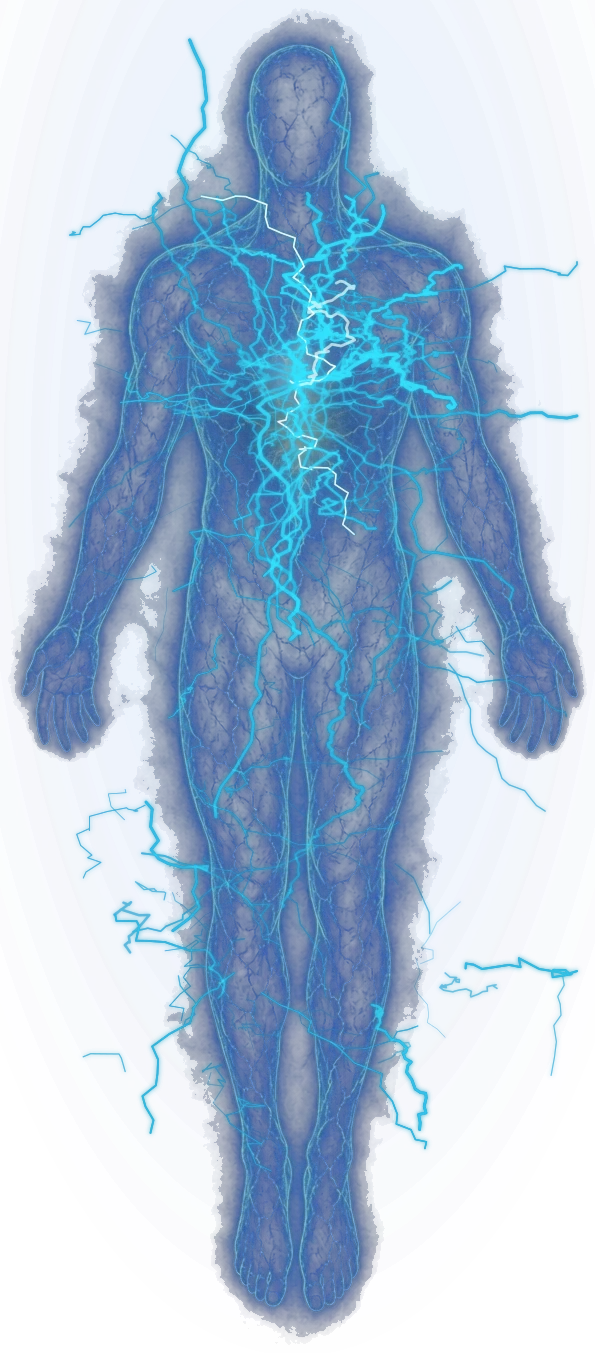
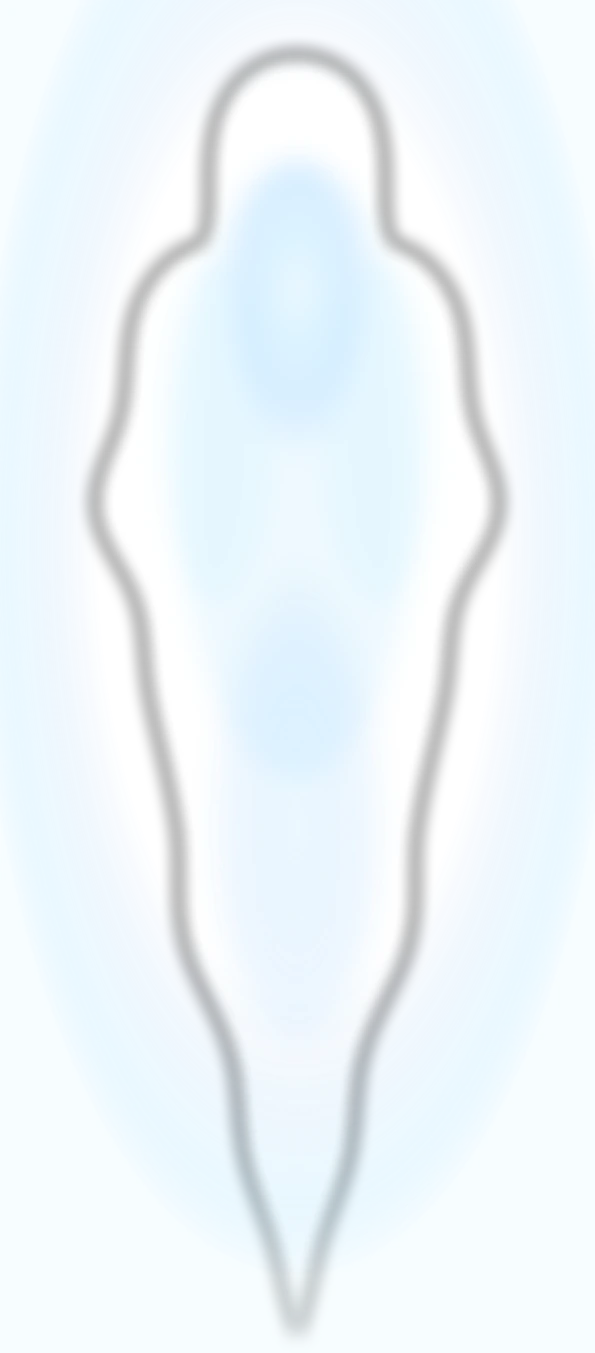
Sun rises behind planet; natural phantom without lightning
- Position rising sun below planet horizon with z-index behind planet scene
- Slow ascend keyframes so disc emerges as planet sinks away
- Regenerate phantom as soft volumetric glow with smooth silhouette
- Remove LightningLayer during phantom phase for clean natural look
- Lower space-light warmth to planet horizon during sunrise

diff --git a/src/components/HeroSun.css b/src/components/HeroSun.css
@@ -9,8 +9,8 @@
 .hero-sun {
   position: absolute;
   left: 50%;
-  top: 108%;
-  z-index: 3;
+  top: var(--sun-rise-start-top);
+  z-index: 1;
   width: 0;
   height: 0;
   pointer-events: none;
@@ -19,11 +19,13 @@
 }
 
 .hero-sun--rising {
+  z-index: 1;
   animation: hero-sun-ascend var(--hero-sun-rise-duration) cubic-bezier(0.25, 0.46, 0.35, 0.98) forwards;
 }
 
 .hero-sun--empowered {
   top: var(--hero-sun-top);
+  z-index: 3;
   opacity: 1;
   transform: translateX(-50%);
   animation: none;
@@ -253,13 +255,23 @@
 
 @keyframes hero-sun-ascend {
   0% {
-    top: 108%;
+    top: var(--sun-rise-start-top);
     opacity: 0;
-    transform: translateX(-50%) scale(0.65);
+    transform: translateX(-50%) scale(0.72);
   }
 
   8% {
+    opacity: 0.25;
+  }
+
+  18% {
+    opacity: 0.7;
+  }
+
+  50% {
+    top: calc(var(--sun-rise-start-top) - 5%);
     opacity: 1;
+    transform: translateX(-50%) scale(0.88);
   }
 
   100% {

diff --git a/src/components/HeroMomentum.tsx b/src/components/HeroMomentum.tsx
@@ -2,7 +2,6 @@ import { useHeroSequence } from "../hooks/useHeroSequence";
 import { useBreakpoint } from "../contexts/BreakpointContext";
 import { useReducedMotion } from "../hooks/useReducedMotion";
 import { CosmicBackground } from "./CosmicBackground";
-import { LightningLayer } from "./LightningLayer";
 import { PhantomEntity } from "./PhantomEntity";
 import { SalesCTA } from "./SalesCTA";
 import { HeroSun } from "./HeroSun";
@@ -34,7 +33,6 @@ export function HeroMomentum() {
       </a>
 
       <CosmicBackground enhanced={showContent} showSunrise={showContent} />
-      {isStorm ? <LightningLayer mega /> : null}
       <PhantomEntity visible={isStorm || isForge} dissolving={isForge} />
       <HeroSun rising={phase === "content"} empowered={isEmpowered} />
       <SalesCTA

diff --git a/src/components/CosmicBackground.css b/src/components/CosmicBackground.css
@@ -139,7 +139,7 @@
 .cosmic-background--sunrise .cosmic-background__space-light {
   background:
     radial-gradient(
-      circle at 50% 58%,
+      circle at 50% 72%,
       rgba(255, 230, 190, 0.58) 0%,
       rgba(255, 195, 130, 0.32) 20%,
       rgba(255, 155, 85, 0.14) 38%,
@@ -147,7 +147,7 @@
       transparent 70%
     ),
     radial-gradient(
-      circle at 50% 48%,
+      circle at 50% 64%,
       rgba(255, 245, 230, 0.34) 0%,
       rgba(255, 210, 150, 0.14) 32%,
       transparent 58%
@@ -180,6 +180,7 @@
 
 .cosmic-background--sunrise {
   --rise-duration: 4.2s;
+  z-index: 2;
 }
 .cosmic-background__planet-scene {
   position: absolute;

diff --git a/src/components/PhantomEntity.css b/src/components/PhantomEntity.css
@@ -217,12 +217,12 @@
   z-index: 1;
   background: transparent;
   filter:
-    contrast(1.1)
-    saturate(1.18)
-    brightness(1.08)
-    drop-shadow(0 0 12px rgba(200, 245, 255, 0.38))
-    drop-shadow(0 0 24px rgba(0, 183, 255, 0.32))
-    drop-shadow(0 0 48px rgba(0, 61, 255, 0.18));
+    blur(0.35px)
+    contrast(1.02)
+    saturate(1.06)
+    brightness(1.05)
+    drop-shadow(0 0 16px rgba(200, 245, 255, 0.28))
+    drop-shadow(0 0 32px rgba(0, 183, 255, 0.18));
   transition:
     filter 600ms ease,
     opacity 1.2s ease;

diff --git a/src/components/HeroMomentum.css b/src/components/HeroMomentum.css
@@ -5,6 +5,8 @@
   /* Disc bottom overlaps pill top — no visible gap */
   --sun-seat-overlap: 0px;
   --hero-sun-top: calc(var(--cta-anchor-y) - var(--pill-half) + var(--sun-seat-overlap));
+  --planet-horizon-y: 50%;
+  --sun-rise-start-top: calc(var(--planet-horizon-y) + 14%);
 
   position: relative;
   isolation: isolate;
@@ -278,6 +280,8 @@
   .hero-momentum {
     --cta-anchor-y: 36%;
     --pill-height: 74px;
+    --planet-horizon-y: 52%;
+    --sun-rise-start-top: calc(var(--planet-horizon-y) + 9%);
   }
 }
 

diff --git a/src/components/PhantomEntity.tsx b/src/components/PhantomEntity.tsx
@@ -21,7 +21,7 @@ export function PhantomEntity({ visible, dissolving = false }: PhantomEntityProp
         <div className="phantom-entity__mist" />
         <img
           className="phantom-entity__figure"
-          src="/phantom/phantom-lightning.webp"
+          src="/phantom/phantom-lightning.webp?v=natural1"
           alt=""
           width={595}
           height={1353}

diff --git a/index.html b/index.html
@@ -14,7 +14,7 @@
     <link
       rel="preload"
       as="image"
-      href="/phantom/phantom-lightning.webp"
+      href="/phantom/phantom-lightning.webp?v=natural1"
       type="image/webp"
       fetchpriority="high"
     />
